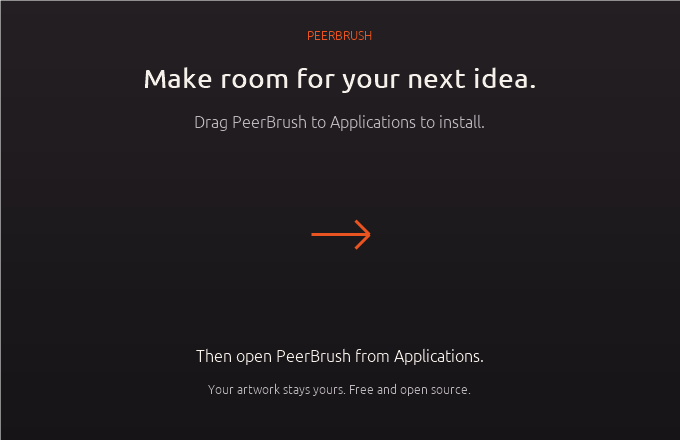
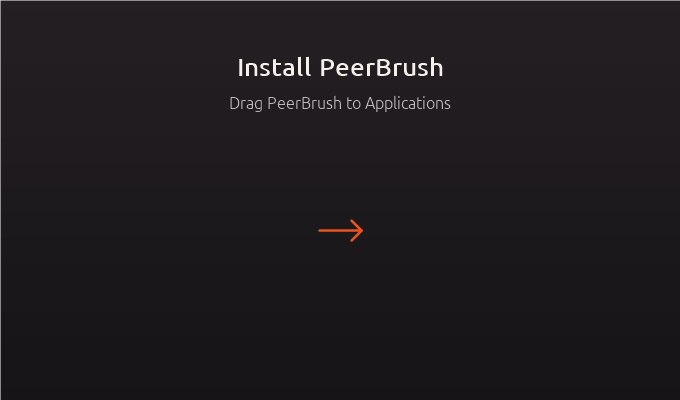
Match the requested minimal Ember Mac installer layout

diff --git a/scripts/macos_dmg_layout.py b/scripts/macos_dmg_layout.py
@@ -49,14 +49,15 @@ tell application "Finder"
     set current view of installerWindow to icon view
     set toolbar visible of installerWindow to false
     set statusbar visible of installerWindow to false
-    set bounds of installerWindow to {160, 120, 840, 590}
+    set bounds of installerWindow to {160, 120, 840, 550}
     set options to icon view options of installerWindow
     set arrangement of options to not arranged
     set icon size of options to 104
     set text size of options to 14
+    set label position of options to bottom
     set background picture of options to file ".background:installer.png" of destination
-    set position of item "PeerBrush.app" of destination to {180, 232}
-    set position of item "Applications" of destination to {500, 232}
+    set position of item "PeerBrush.app" of destination to {180, 230}
+    set position of item "Applications" of destination to {500, 230}
     update destination without registering applications
     delay 2
     close installerWindow

diff --git a/scripts/package_macos_dmg.py b/scripts/package_macos_dmg.py
@@ -449,7 +449,8 @@ def prepare(archive, output, commit, version, expected_sha256, revision, source_
         elif (copied.is_symlink() or digest(regular_file(bundle, relative)) != digest(copied)
               or stat.S_IMODE(copied.stat().st_mode) != mode):
             raise ValueError('DMG staging changed original archive bytes or modes')
-    expected = create_image(payload, image, work / 'mounted', f'PeerBrush {version}',
+    expected = create_image(payload, image, work / 'mounted',
+                            'Install PeerBrush' if tuple(map(int, version.split('.'))) >= (0, 30, 1) else f'PeerBrush {version}',
                             verify_app=lambda mounted_app: verify_native(mounted_app, manifest['macos_signing']['team_id'], notarized=True))
     if digest(archive) != expected_sha256:
         raise ValueError('Signed archive changed during DMG preparation')

diff --git a/src/ui/associations/welcome.rs b/src/ui/associations/welcome.rs
@@ -122,7 +122,7 @@ impl Welcome {
                 ui.add_space(12.);
                 ui.label(RichText::new("WELCOME TO PEERBRUSH").size(11.).color(ACCENT).strong());
                 ui.add_space(8.);
-                ui.label(RichText::new("Your files. Your editor.").size(27.).strong());
+                ui.label(RichText::new("Make PeerBrush your default?").size(27.).strong());
                 ui.add_space(10.);
                 ui.label("Would you like PSD and PSB files to open in PeerBrush when you double-click them?");
                 ui.add_space(18.);
